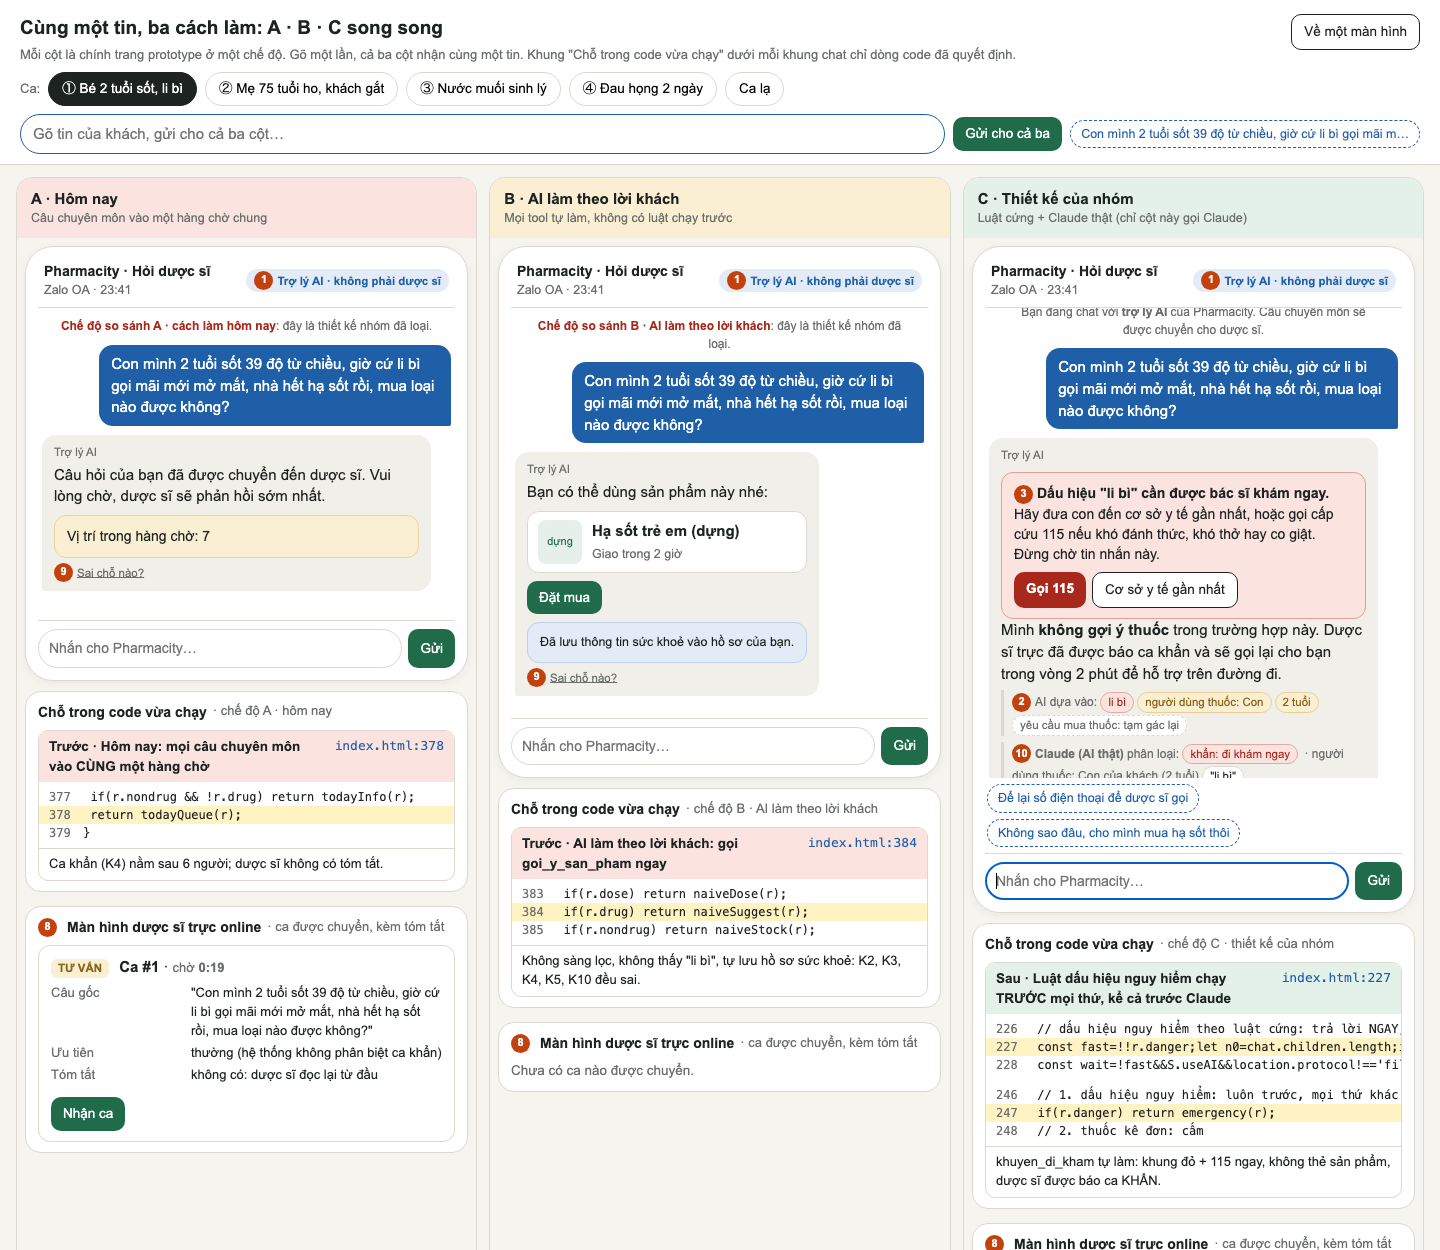
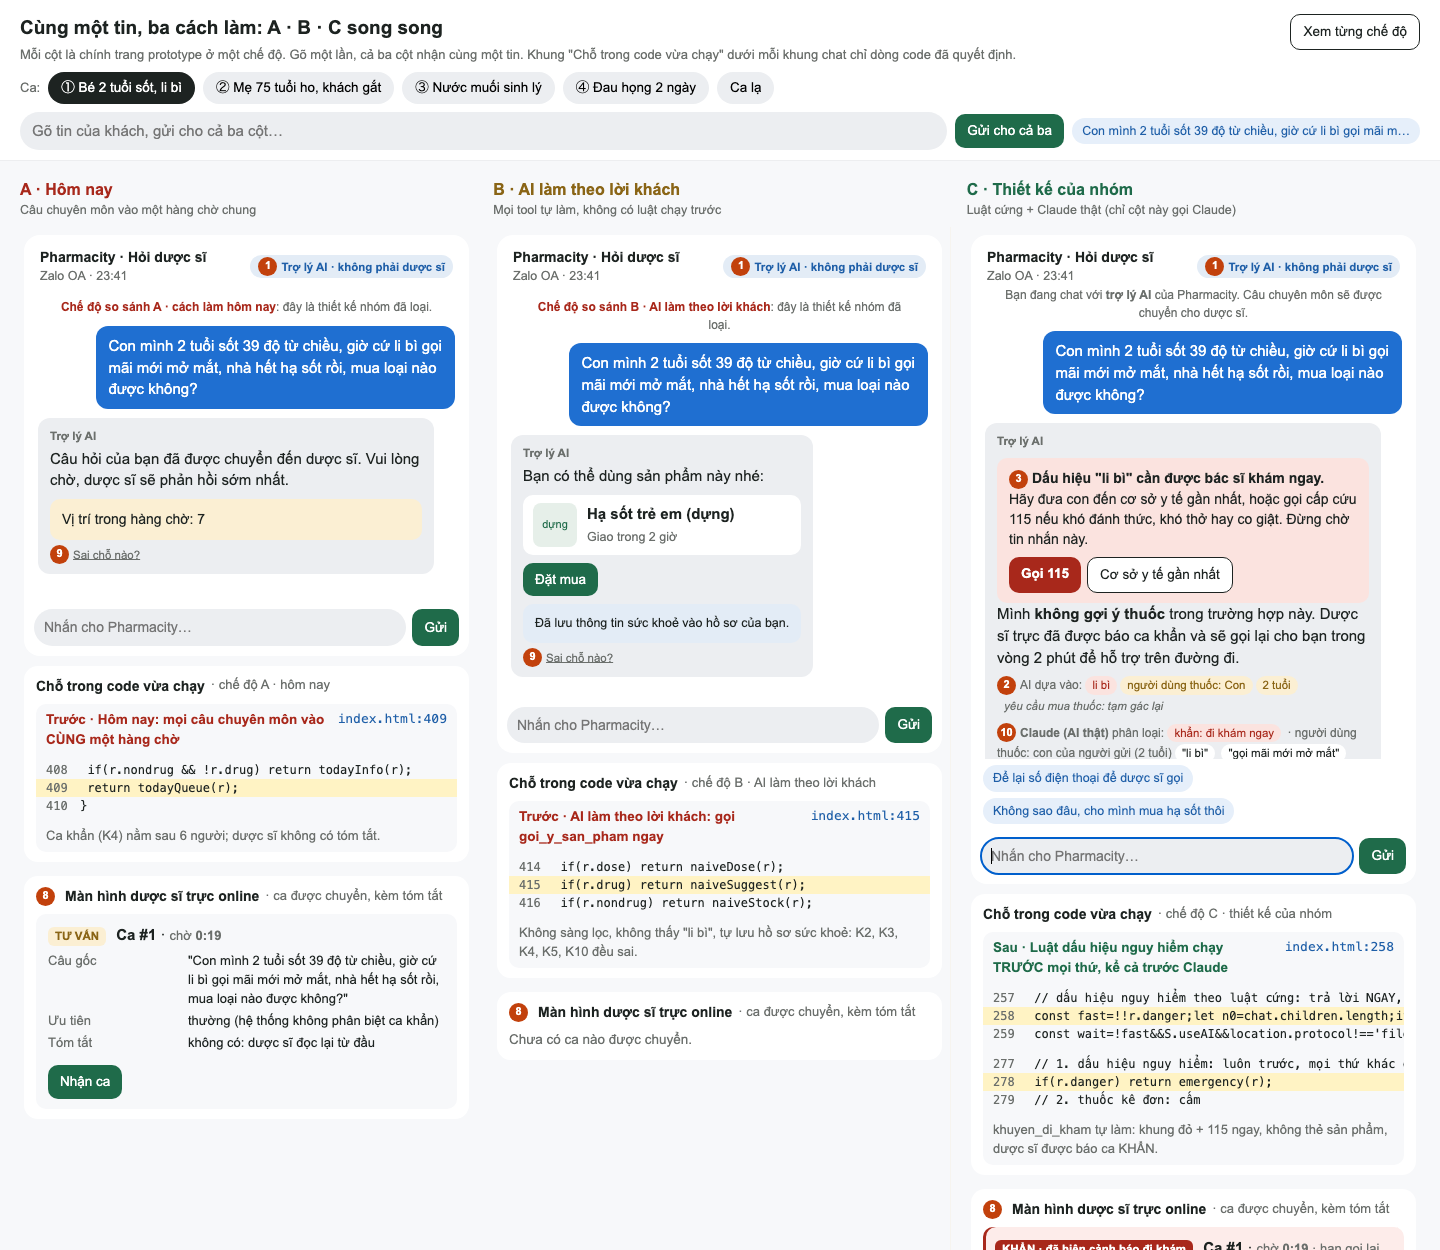
feat(prototype): side-by-side view is the default; flat UI with blue/gray chat boxes
Single-mode view moves to ?view=single. Borders removed from panels,
phone, tickets and code steps; customer messages are blue boxes and
AI replies gray boxes.

Changed region(s): [[0.0, 0.0624, 1.0, 1.0], [0.9062, 0.0, 0.9688, 0.0312]]

diff --git a/prototype/index.html b/prototype/index.html
@@ -88,10 +88,41 @@ body.embed .panel{padding:10px 12px}body.embed .panel h2{font-size:14px}
 .cmp-col.a h3{background:var(--rb)}.cmp-col.b h3{background:var(--ab)}.cmp-col.c h3{background:var(--gb)}
 .cmp-col iframe{border:0;width:100%;height:1250px;background:var(--bg)}
 .foot{font-size:12px;color:var(--mut);padding:0 24px 20px}
+
+/* ===== giao diện gọn: bỏ viền, chat dạng hộp xanh (khách) / xám (AI) ===== */
+body{background:#f7f8fa}
+header,.cmp-head{border-bottom:0;box-shadow:0 1px 0 rgba(0,0,0,.04)}
+.phone,.panel,.cmp-col,.step,.ticket,.prod,.box,.box.red,.box.warn,.box.ok,.box.info,.chip,.seg button,.form select,.form input,.compose input,.cases button{border:0}
+.phone{box-shadow:none;border-radius:16px;padding:10px}
+.panel{border-radius:14px}
+.cmp-col{border-radius:14px;background:transparent}
+.cmp-col h3{background:transparent!important;padding:6px 4px 8px;font-size:16px}
+.cmp-col.a h3{color:var(--r)}.cmp-col.b h3{color:var(--a)}.cmp-col.c h3{color:var(--g)}
+.bar{border-bottom:0;padding-bottom:4px}
+.me{background:#1f6fd1;color:#fff;border-radius:12px;padding:9px 12px}
+.ai{background:#eceef1;border-radius:12px;padding:10px 12px}
+.ph{background:#e3f1e9;border:0;border-radius:12px}
+.ai .who,.ph .who{font-weight:600}
+.box{border-radius:10px}.prod{background:#fff;border-radius:10px}
+.chip{background:#fff}.chip.unk{background:transparent;color:var(--mut);font-style:italic}
+.ev{border-left:0;padding-left:0}
+.ticket{background:#f7f8fa;border-radius:10px}.ticket.urgent{border:0;background:#fdecea;box-shadow:inset 3px 0 0 var(--r)}
+.step{background:#f7f8fa;border-radius:10px}.step .hd{background:transparent!important}
+.step.bad .hd b{color:var(--r)}.step.good .hd b{color:var(--g)}
+pre.src{background:transparent}
+.verdict{border-top:0;color:var(--mut)}
+.compose{border-top:0}.compose input{background:#eceef1}
+.cases button{background:#eceef1}.cases button.on{background:var(--ink);color:#fff}
+.cases button[data-mode].on{background:var(--b)}
+.form select,.form input{background:#fff}
+.seg button{background:#fff}.seg button.on{background:var(--ink)}
+td,th{border-bottom:1px solid #eef0f2}
+.quick button{border:0;background:#e6effa}
+.cmp-row input{border:0;background:#eceef1}
 </style></head>
 <body>
 <header>
- <a class="btn out" style="float:right" id="tocmp" href="?view=compare">Xem A · B · C song song</a>
+ <a class="btn out" style="float:right" id="tocmp" href="./">Xem A · B · C song song</a>
  <h1>Hỏi dược sĩ · trợ lý AI trả lời đầu tiên: tự trả lời, hỏi sàng lọc, chuyển dược sĩ hay khuyên đi khám</h1>
  <div class="sub">Prototype T1 · Nhóm CaoDuyMinh. Dữ liệu dựng, tên sản phẩm dựng. Mỗi tin khách được <b>Claude thật</b> phân loại qua <code>server.py</code> (key nằm ở server, không ở trang); luật cứng chạy song song và lấy kết quả thận trọng hơn. Không có server thì trang tự dùng luật.</div>
  <div class="cases" id="modes"><span class="sub">So sánh trước / sau:</span>
@@ -449,7 +480,7 @@ function start(c){
  add('sys',MODE==='ours'?'Bạn đang chat với <b>trợ lý AI</b> của Pharmacity. Câu chuyên môn sẽ được chuyển cho dược sĩ.':'<b style="color:var(--r)">Chế độ so sánh '+(MODE==='today'?'A · cách làm hôm nay':'B · AI làm theo lời khách')+'</b>: đây là thiết kế nhóm đã loại.');TRACE=[];renderCode&&renderCode();
  if(CASES[c]) setQuick([[CASES[c],()=>onMsg(CASES[c])]]);
  else setQuick([['Cho mình mua Augmentin 625, đơn cũ hết rồi',()=>onMsg('Cho mình mua Augmentin 625, đơn cũ hết rồi')],['Mình đang bầu 3 tháng, bị cảm sổ mũi 2 hôm, có thuốc nào không ảnh hưởng em bé không ạ?',()=>onMsg('Mình đang bầu 3 tháng, bị cảm sổ mũi 2 hôm, có thuốc nào không ảnh hưởng em bé không ạ?')],['Bé 15kg uống hạ sốt bao nhiêu ml?',()=>onMsg('Bé 15kg uống hạ sốt bao nhiêu ml?')]]);
- $('#inp').focus({preventScroll:true});const tc=document.getElementById('tocmp');if(tc)tc.href='?view=compare&case='+c;
+ $('#inp').focus({preventScroll:true});const tc=document.getElementById('tocmp');if(tc)tc.href='?case='+c;
 }
 document.querySelectorAll('[data-case]').forEach(b=>b.onclick=()=>start(+b.dataset.case));
 $('#compose').onsubmit=e=>{e.preventDefault();const v=$('#inp').value.trim();if(!v)return;$('#inp').value='';quick.innerHTML='';onMsg(v)};
@@ -457,7 +488,7 @@ $('#useai').onchange=e=>{S.useAI=e.target.checked};
 $('#ann').onchange=e=>document.body.classList.toggle('hide-n',!e.target.checked);
 // ?case=1&auto=1 → tự bấm tới cuối, dùng để chụp ảnh
 const q=new URLSearchParams(location.search);if(q.get('mode')){MODE=q.get('mode');document.querySelectorAll('[data-mode]').forEach(b=>b.classList.toggle('on',b.dataset.mode===MODE));$('#codemode').textContent='· chế độ '+({today:'A · hôm nay',naive:'B · AI làm theo lời khách',ours:'C · thiết kế của nhóm'})[MODE]}start(+(q.get('case')||1));
-if(q.get('view')==='compare'){}
+if(!(q.get('embed')||q.get('view')==='single'||q.get('mode')||q.get('q'))){}
 else if(q.get('q')){setTimeout(()=>{quick.innerHTML='';onMsg(q.get('q'))},300)}
 else if(q.get('auto')){const c=+(q.get('case')||1);setTimeout(()=>{quick.querySelector('button')?.click();
  setTimeout(()=>{if(c===2)quick.querySelector('button')?.click();if(c===4)quick.querySelector('button')?.click();},700);
@@ -466,10 +497,11 @@ else if(q.get('auto')){const c=+(q.get('case')||1);setTimeout(()=>{quick.querySe
 
 // ================= Màn hình so sánh A · B · C song song =================
 if(q.get('embed')){document.body.classList.add('embed')}
-if(q.get('view')==='compare'){
+const SINGLE=q.get('embed')||q.get('view')==='single'||q.get('mode')||q.get('q');
+if(!SINGLE){
  const c0=+(q.get('case')||1);
  const cols=[['a','today','A · Hôm nay','Câu chuyên môn vào một hàng chờ chung'],['b','naive','B · AI làm theo lời khách','Mọi tool tự làm, không có luật chạy trước'],['c','ours','C · Thiết kế của nhóm','Luật cứng + Claude thật (chỉ cột này gọi Claude)']];
- document.body.innerHTML=`<div class="cmp-head"><a class="btn out" style="float:right" href="./">Về một màn hình</a>
+ document.body.innerHTML=`<div class="cmp-head"><a class="btn out" style="float:right" href="?view=single&case=1">Xem từng chế độ</a>
   <h1>Cùng một tin, ba cách làm: A · B · C song song</h1>
   <div class="sub">Mỗi cột là chính trang prototype ở một chế độ. Gõ một lần, cả ba cột nhận cùng một tin. Khung "Chỗ trong code vừa chạy" dưới mỗi khung chat chỉ dòng code đã quyết định.</div>
   <div class="cmp-row cases"><span class="sub">Ca:</span>${[[1,'① Bé 2 tuổi sốt, li bì'],[2,'② Mẹ 75 tuổi ho, khách gắt'],[3,'③ Nước muối sinh lý'],[4,'④ Đau họng 2 ngày'],[0,'Ca lạ']].map(([v,l])=>`<button data-cc="${v}" class="${v===c0?'on':''}">${l}</button>`).join('')}</div>
@@ -481,7 +513,7 @@ if(q.get('view')==='compare'){
  const quickFor=c=>{const box=document.getElementById('cquick');box.innerHTML='';const list=CASES[c]?[CASES[c]]:['Cho mình mua Augmentin 625, đơn cũ hết rồi','Bé 15kg uống hạ sốt bao nhiêu ml?','Bé nhà mình cứ nằm im, không chịu bú từ sáng, mua gì cho bé được không'];
   list.forEach(t=>{const b=document.createElement('button');b.type='button';b.textContent=t.length>60?t.slice(0,58)+'…':t;b.title=t;b.onclick=()=>sendAll(t);box.appendChild(b)})};
  let cur=c0;quickFor(cur);
- document.querySelectorAll('[data-cc]').forEach(b=>b.onclick=()=>{cur=+b.dataset.cc;document.querySelectorAll('[data-cc]').forEach(x=>x.classList.toggle('on',x===b));W().forEach(w=>{try{w.start(cur)}catch(e){}});quickFor(cur)});
+ document.querySelectorAll('[data-cc]').forEach(b=>b.onclick=()=>{cur=+b.dataset.cc;document.querySelectorAll('[data-cc]').forEach(x=>x.classList.toggle('on',x===b));W().forEach(w=>{try{w.start(cur)}catch(e){}});quickFor(cur);document.querySelector('.cmp-head a').href='?view=single&case='+cur});
  document.getElementById('cform').onsubmit=e=>{e.preventDefault();const v=document.getElementById('cin').value.trim();if(!v)return;document.getElementById('cin').value='';sendAll(v)};
  if(q.get('auto')){let n=0;frames.forEach(f=>f.addEventListener('load',()=>{if(++n===3)setTimeout(()=>sendAll(CASES[c0]||'Bé nhà mình cứ nằm im, không chịu bú từ sáng, mua gì cho bé được không'),400)}))}
 }

diff --git a/spec.md b/spec.md
@@ -167,7 +167,7 @@ Lời hứa mới chậm hơn vài phút cho người lớn khoẻ mạnh, nhưn
 ## §5. Prototype
 
 - **File:** [`prototype/index.html`](prototype/index.html). Một file HTML tự viết (có coding agent hỗ trợ), mở trực tiếp hoặc chạy `python3 -m http.server`. Hướng dẫn bấm ở [`prototype/README.md`](prototype/README.md).
-- **Lời gọi AI thật (bonus):** mỗi tin khách được gửi tới **Claude Haiku 5.5** qua `prototype/server.py`. Claude chỉ **phân loại** tin vào một trong 7 nhóm (khẩn / kê đơn / hỏi liều / chuyển dược sĩ / sàng lọc / không phải thuốc / khác), nói ai là người dùng thuốc, và trích chữ khách làm bằng chứng. Log 33 lần gọi thật nằm ở `prototype/ai-log.jsonl`. Mọi tin thuộc kịch bản §2 (K1–K6, K9, K11, ca lạ "bé nằm im") đều ra đúng đường. Hai tin gõ thêm khi thử, "ghi lại lịch sử của mẹ", ra `khac` và `sang_loc`: đây là yêu cầu `luu_ghi_chu_suc_khoe` mà bảng phân loại chưa có nhóm riêng (xem §6). Key nằm trong `.env` (đã `.gitignore`), chỉ server đọc, không có trong code nộp.
+- **Lời gọi AI thật (bonus):** mỗi tin khách được gửi tới **Claude Haiku 5.5** qua `prototype/server.py`. Claude chỉ **phân loại** tin vào một trong 7 nhóm (khẩn / kê đơn / hỏi liều / chuyển dược sĩ / sàng lọc / không phải thuốc / khác), nói ai là người dùng thuốc, và trích chữ khách làm bằng chứng. Log 40 lần gọi thật nằm ở `prototype/ai-log.jsonl`. Mọi tin thuộc kịch bản §2 (K1–K6, K9, K11, ca lạ "bé nằm im") đều ra đúng đường. Hai tin gõ thêm khi thử, "ghi lại lịch sử của mẹ", ra `khac` và `sang_loc`: đây là yêu cầu `luu_ghi_chu_suc_khoe` mà bảng phân loại chưa có nhóm riêng (xem §6). Key nằm trong `.env` (đã `.gitignore`), chỉ server đọc, không có trong code nộp.
 - **Vì sao Claude chỉ phân loại, không trả lời khách:** câu AI nói ở §3 là câu đã duyệt. Để model tự viết câu gửi khách thì mất khả năng hứa "không bao giờ nói liều" (K9). Claude và bộ luật cứng chạy **song song**, và trang lấy kết quả **thận trọng hơn**: Claude được nâng một ca lên khẩn hoặc chuyển dược sĩ, không được hạ một ca luật đã chặn. Câu trích không có trong tin khách thì server bỏ, để chip "bằng chứng" không thể bịa.
 - **Phần mock:** màn hình dược sĩ, đồng hồ, bản đồ và tên sản phẩm là dựng. Không có server thì trang tự dùng luật dự phòng, và nhãn trên đầu trang báo điều đó.
 - **Hai màn hình:** trái là khung chat Zalo của khách; phải là **màn hình dược sĩ trực** nhận ca chuyển kèm tóm tắt (bonus của track), cùng bảng mức tự chủ (dòng nào vừa được dùng thì tô vàng).
@@ -195,7 +195,7 @@ Lời hứa mới chậm hơn vài phút cho người lớn khoẻ mạnh, nhưn
 - **B · AI làm theo lời khách:** mọi tool ở mức tự làm.
 - **C · Thiết kế của nhóm.**
 
-Khung "Chỗ trong code vừa chạy" hiện nhánh code và số dòng `index.html:NNN` cho từng tin. Nút "Xem A · B · C song song" (`?view=compare`) đặt ba cách cạnh nhau, và một ô nhập gửi cùng một tin cho cả ba (`prototype/compare-abc-1.png`). Với ca K4: A để khách ở vị trí 7 trong hàng chờ, B gửi thẻ "Hạ sốt trẻ em", C hiện khung đỏ và báo dược sĩ ca KHẨN (`prototype/compare-*.png`). Đây là bằng chứng cho phần "phương án đã loại" ở §3 và §4, nhìn thấy được thay vì chỉ viết ra.
+Khung "Chỗ trong code vừa chạy" hiện nhánh code và số dòng `index.html:NNN` cho từng tin. Trang mặc định đặt ba cách cạnh nhau (`?view=single` để xem từng chế độ), và một ô nhập gửi cùng một tin cho cả ba (`prototype/compare-abc-1.png`). Với ca K4: A để khách ở vị trí 7 trong hàng chờ, B gửi thẻ "Hạ sốt trẻ em", C hiện khung đỏ và báo dược sĩ ca KHẨN (`prototype/compare-*.png`). Đây là bằng chứng cho phần "phương án đã loại" ở §3 và §4, nhìn thấy được thay vì chỉ viết ra.
 
 **Quyết định: cách hiện độ chắc / bằng chứng**
 

diff --git a/prototype/README.md b/prototype/README.md
@@ -8,7 +8,7 @@
   - Claude **chỉ được làm quyết định chặt hơn** bộ luật cứng trong trang, không bao giờ nới ra.
   - Claude **không viết câu gửi khách**: mọi câu khách đọc là mẫu cố định.
   - Câu trích nào không có trong tin của khách thì server bỏ đi.
-  - Log của các lần gọi thật: [`ai-log.jsonl`](ai-log.jsonl) (33 lần gọi, tin dựng, không có key).
+  - Log của các lần gọi thật: [`ai-log.jsonl`](ai-log.jsonl) (40 lần gọi, tin dựng, không có key).
 - **Phần mock:** màn hình dược sĩ, đồng hồ chờ, bản đồ cơ sở y tế và tên sản phẩm đều là dựng.
 
 ## So sánh trước / sau trên cùng một trang
@@ -23,14 +23,14 @@ Hàng nút **"So sánh trước / sau"** ở đầu trang chạy lại **cùng m
 
 Khung **"Chỗ trong code vừa chạy"** (trên cùng bên phải) hiện đúng nhánh code vừa chạy cho tin đó, kèm số dòng `index.html:NNN` đọc từ chính file đang chạy. Đỏ là cách đã loại (A, B), xanh là thiết kế của nhóm (C).
 
-**Xem cả ba cột cùng lúc:** bấm **"Xem A · B · C song song"** (góc trên phải), hoặc mở `?view=compare`. Ba cột A · B · C chạy cạnh nhau; một ô nhập ở trên gửi **cùng một tin** cho cả ba. Mỗi cột có khung chat, khung code vừa chạy và màn hình dược sĩ của riêng nó. Chỉ cột C gọi Claude.
+**Mặc định trang mở ở màn hình so sánh A · B · C song song** (<http://localhost:8767>). Muốn xem từng chế độ một, kèm bảng mức tự chủ và chú thích, bấm **"Xem từng chế độ"** (`?view=single`). Ba cột A · B · C chạy cạnh nhau; một ô nhập ở trên gửi **cùng một tin** cho cả ba. Mỗi cột có khung chat, khung code vừa chạy và màn hình dược sĩ của riêng nó. Chỉ cột C gọi Claude.
 
 Ảnh: `compare-abc-1.png` (ca ① song song) · `compare-abc-2.png` (ca ② song song) · `compare-today.png` / `compare-naive.png` / `compare-ours.png` (từng chế độ, đủ màn hình).
 
 ## Kịch bản demo 4 phút
 
 1. **(30") Lát cắt:** đọc câu lát cắt; chỉ nhãn số 1.
-2. **(60") Ca ① ở màn hình song song** (`?view=compare`), bấm tin mẫu một lần: A: khách bé li bì nằm hàng chờ vị trí 7. B: AI bán hạ sốt. C: khung đỏ, 115, ca KHẨN bên dược sĩ. Mỗi lần đổi chế độ, chỉ khung code: dòng vàng là chỗ khác nhau.
+2. **(60") Ca ① ở màn hình song song** (trang mặc định), bấm tin mẫu một lần: A: khách bé li bì nằm hàng chờ vị trí 7. B: AI bán hạ sốt. C: khung đỏ, 115, ca KHẨN bên dược sĩ. Mỗi lần đổi chế độ, chỉ khung code: dòng vàng là chỗ khác nhau.
 3. **(60") Ca ② ở chế độ C:** khách gắt, AI không hỏi lại, chuyển dược sĩ. Chỉ dòng "Claude (AI thật)" (số 10) và nhánh code `routeFromAngry`.
 4. **(40") Mức tự chủ:** ca ④, gợi ý thuốc nằm ở "chờ dược sĩ duyệt" (số 5). Trả lời câu "sai thì ai mất gì".
 5. **(50") Ca lạ:** chọn "Ca lạ: tự gõ", gõ câu TA đưa, đọc khung code để nói nhánh nào chạy và vì sao.
